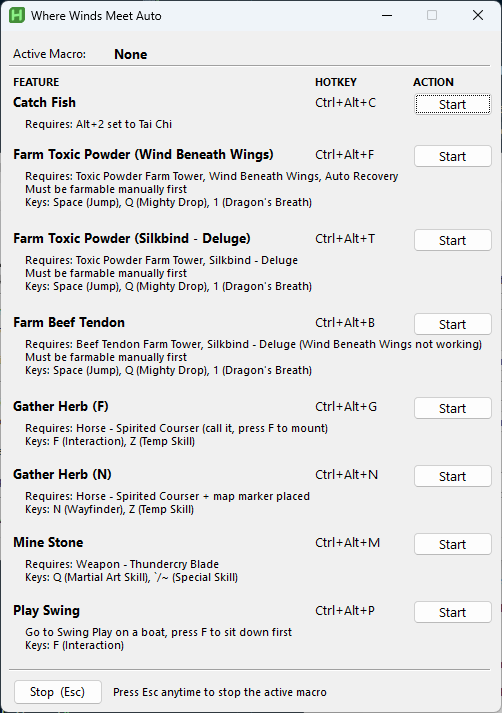
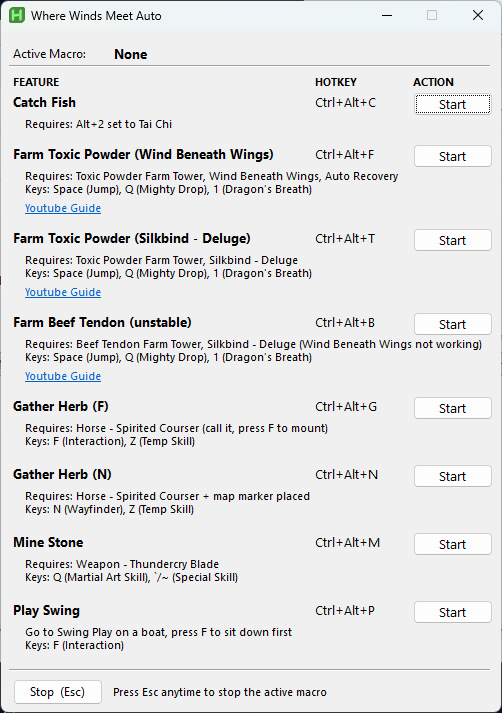
chore: Add more guide

diff --git a/README.md b/README.md
@@ -2,15 +2,26 @@
 
 AutoHotkey v2 automation script for _Where Winds Meet_ with a GUI launcher and hotkeys for fishing, herb gathering, mining, farming, and mini-games.
 
----
-
-## Download
-
-Grab the latest **WhereWindsMeetAuto.exe** from the [Releases](../../releases/latest) page — no installation required.
+![Where Winds Meet Auto GUI](images/WhereWindsMeetAuto.png)
 
 ---
 
-## Getting Started
+## Features
+
+| Macro                                  | Hotkey     | Requires                                                   |
+| -------------------------------------- | ---------- | ---------------------------------------------------------- |
+| Catch Fish                             | Ctrl+Alt+C | Alt+2 set to Tai Chi                                       |
+| Farm Toxic Powder (Wind Beneath Wings) | Ctrl+Alt+F | Toxic Powder Farm Tower, Wind Beneath Wings, Auto Recovery |
+| Farm Toxic Powder (Silkbind - Deluge)  | Ctrl+Alt+T | Toxic Powder Farm Tower, Silkbind - Deluge                 |
+| Farm Beef Tendon (unstable)            | Ctrl+Alt+B | Beef Tendon Farm Tower, Silkbind - Deluge                  |
+| Gather Herb (F)                        | Ctrl+Alt+G | Horse — Spirited Courser (call it, press F to mount)       |
+| Gather Herb (N)                        | Ctrl+Alt+N | Horse — Spirited Courser + map marker placed               |
+| Mine Stone                             | Ctrl+Alt+M | Weapon — Thundercry Blade                                  |
+| Play Swing                             | Ctrl+Alt+P | Sit on a boat swing first                                  |
+
+---
+
+## Download & Setup
 
 **Option A — Standalone executable (recommended)**
 
@@ -24,17 +35,38 @@ Grab the latest **WhereWindsMeetAuto.exe** from the [Releases](../../releases/la
 
 ---
 
-## Features
-
-![Where Winds Meet Auto GUI](images/WhereWindsMeetAuto.png)
-
----
-
 ## Usage Notes
 
 - **Administrator required** — Both the `.exe` and `.ahk` must be run as administrator.
 - **Auto-focus** — Clicking **Start** will automatically bring the game window into focus.
-- **One macro at a time** — Only one macro can run at a time; stop the current macro before starting a new one.
+- **One macro at a time** — Only one macro can run at a time. Press **Esc** to stop the active macro before starting a new one.
+
+---
+
+## Macro Recorder
+
+[Macro Recorder](https://www.macrorecorder.com/) scripts are included in [MacroRecorder](/MacroRecorder/) if you want to update skill/interactive keys without programming knowledge.
+
+---
+
+## Farm Beef Tendon (unstable)
+
+The respawn point of the enemy often changes between sessions, so this macro may need adjustments each time.
+
+- It is highly recommended to make your own changes and run the script directly.
+- Update the number of repetitions to control how your character collects items.
+
+**AutoHotkey**
+
+![Farm Beef Tendon AutoHotKey](images/FarmBeefTendonAutoHotkey.png)
+
+**Macro Recorder**
+
+![Farm Beef Tendon Macro Recorder](images/FarmBeefTendonMacroRecorder.png)
+
+**Tower setup** — Build it like this to prevent the character from going outside the tower:
+
+![Beef Tendon Farm Tower](images/BeefTendonFarmTower.jpg)
 
 ---
 
